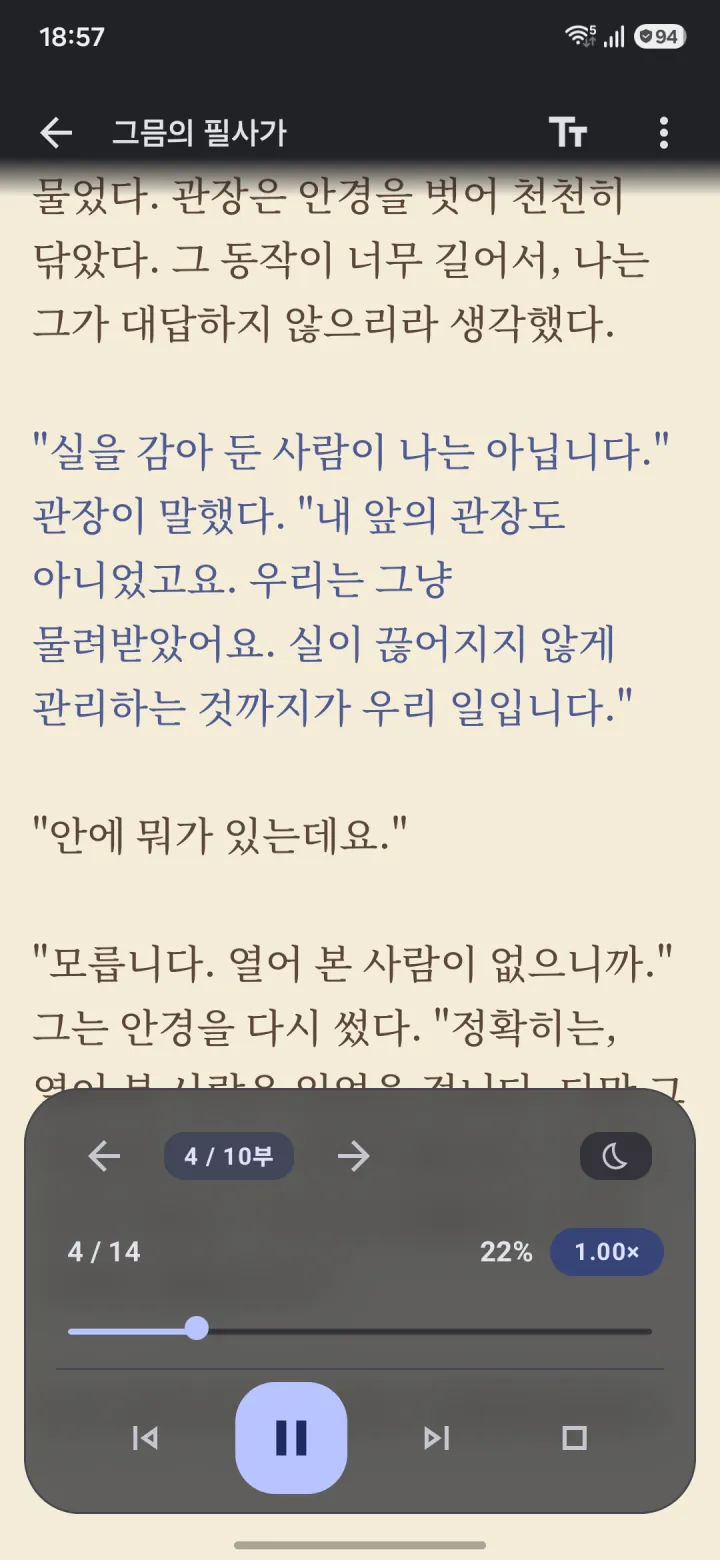
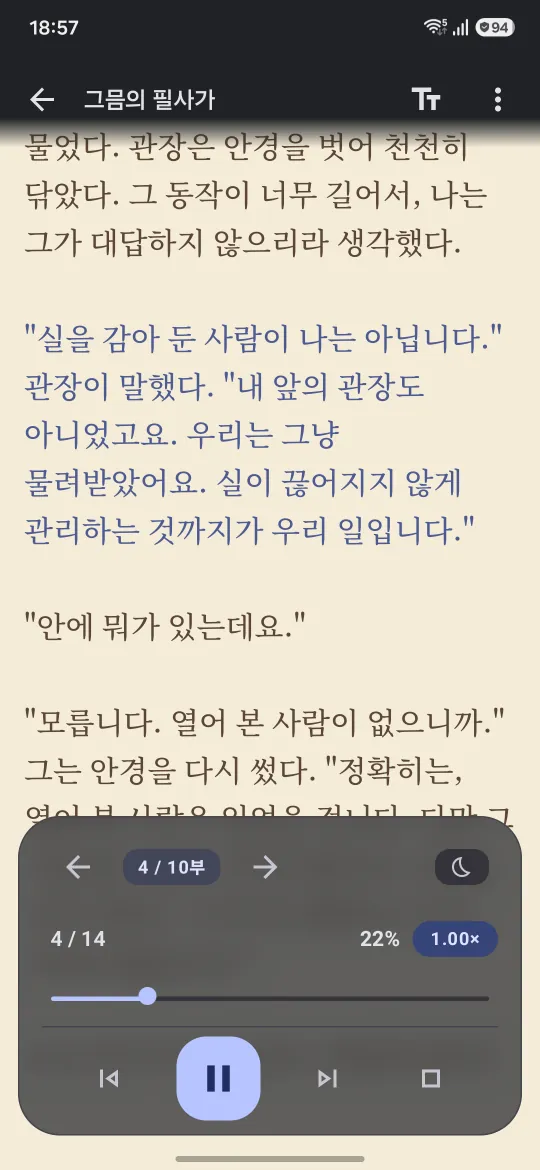
앱 화면 목록 이미지를 540px로 줄여 느린 네트워크에서 늦게 뜨는 시간을 줄인다
목록은 200~230px 너비로 보여 540px이면 2배 화면에서도 충분하다.
첫 화면의 두 장은 290px로 보여 720px를 유지한다. 전체 약 820KB → 644KB.

diff --git a/app/page.tsx b/app/page.tsx
@@ -153,8 +153,8 @@ export default function Home() {
                 <Image
                   src={`${basePath}/screens/${screen.src}.webp`}
                   alt={screen.alt}
-                  width={720}
-                  height={1560}
+                  width={540}
+                  height={1170}
                   loading="lazy"
                   unoptimized
                 />
